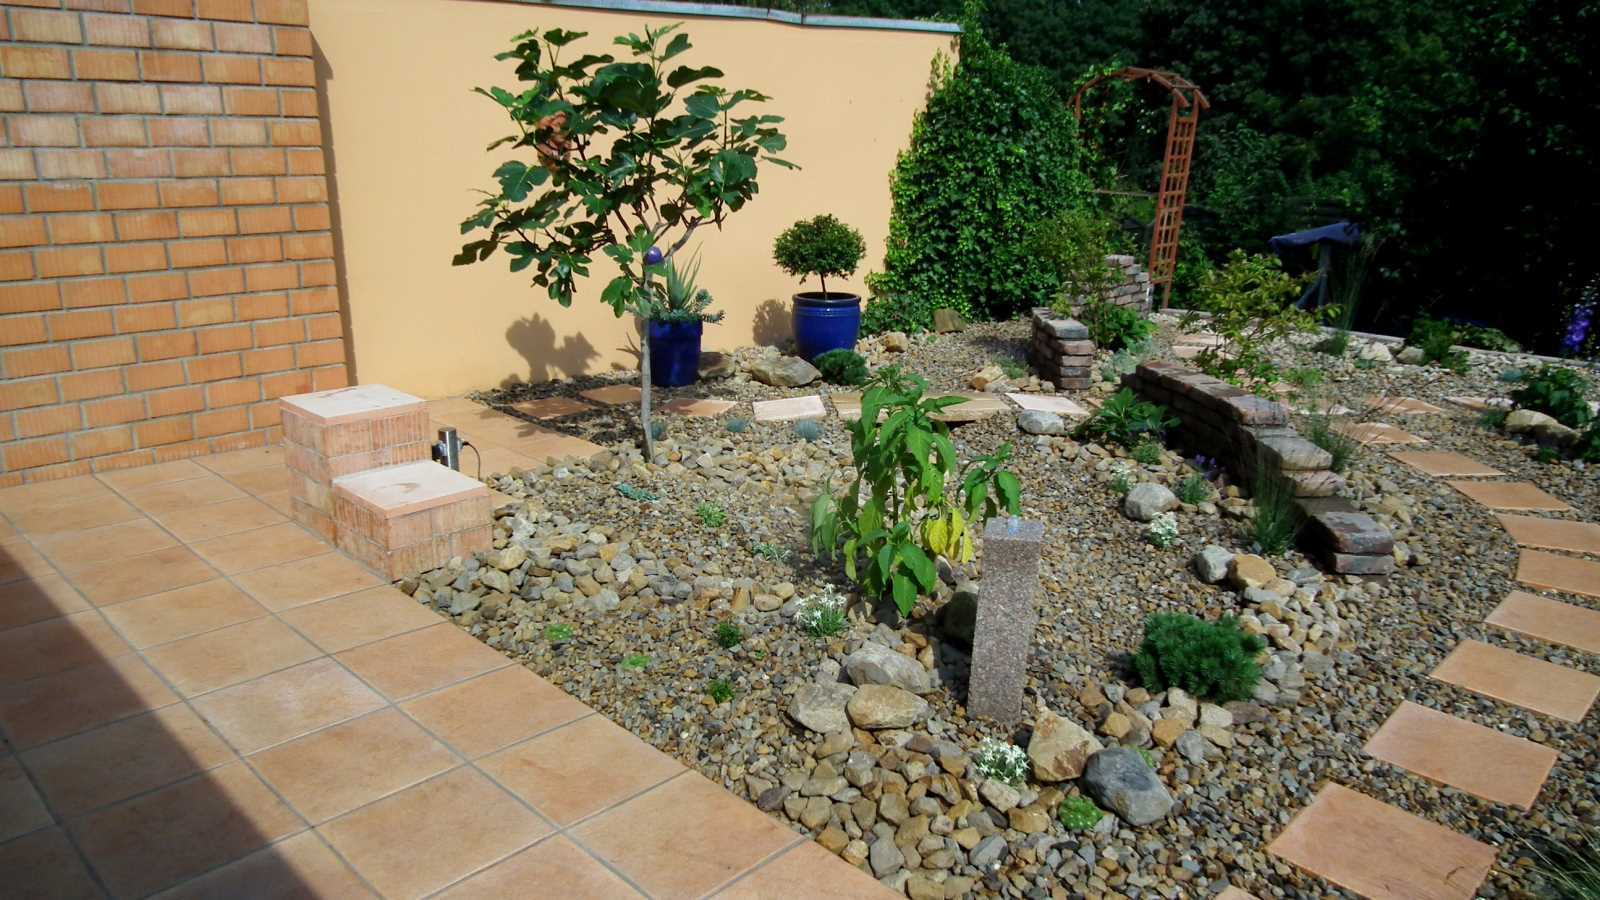
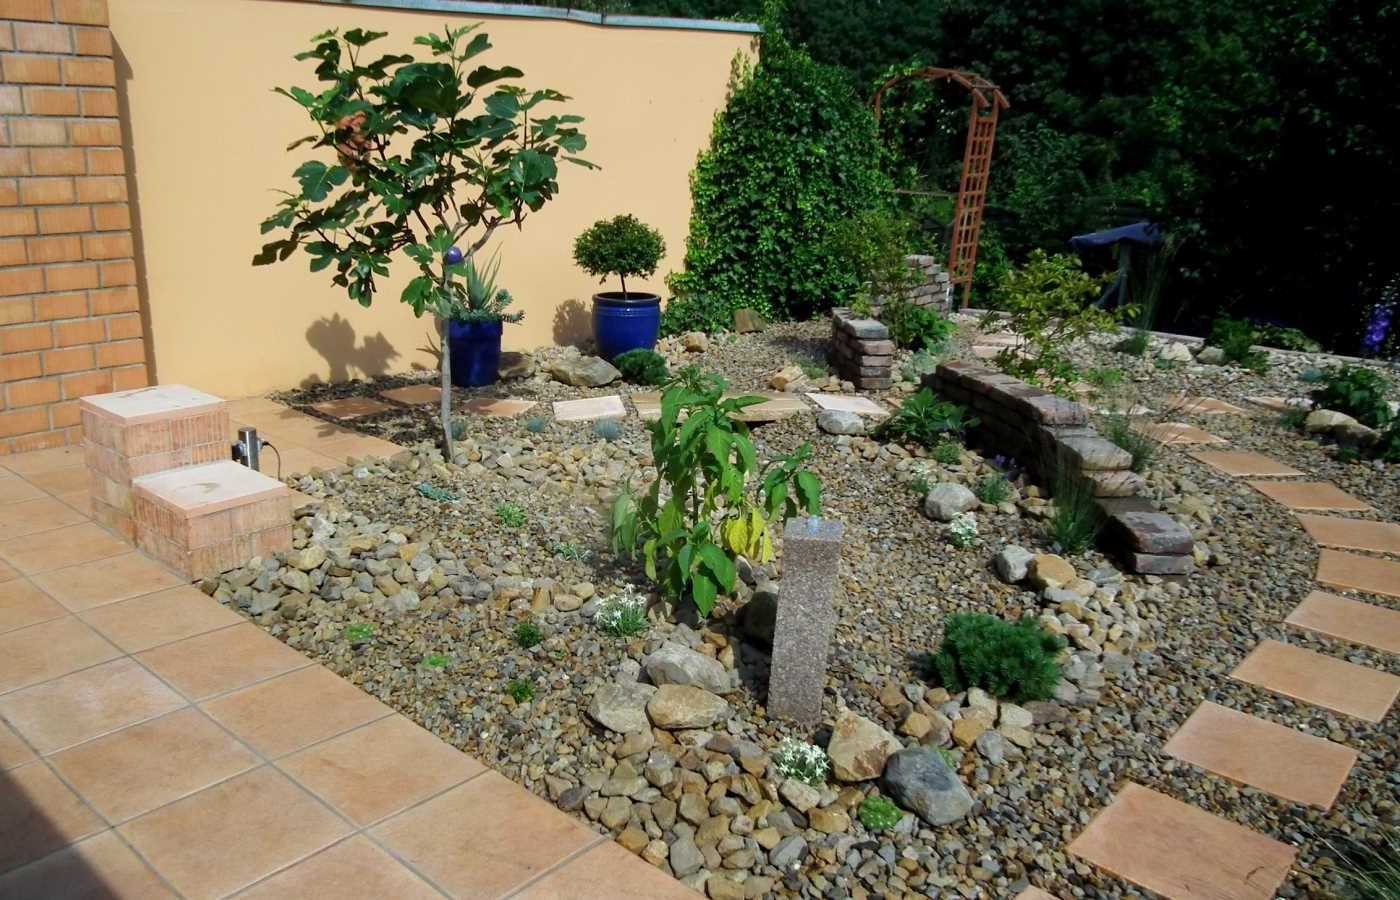
Add garten-referenz15.jpg

diff --git a/_layouts/garten.html b/_layouts/garten.html
@@ -91,15 +91,15 @@ layout: default
   <div class="h-spacer"></div>
 </div>
 
-<div class="content-frame">
-  <div class="h-spacer"></div>
-  <div class="h-spacer"></div>
-  <div class="h-spacer"></div>
-  <div class="h-spacer"></div>
-  <div class="h-spacer"></div>
+<div class="h-spacer"></div>
+<div class="h-spacer"></div>
+<div class="h-spacer"></div>
+<div class="h-spacer"></div>
+<div class="h-spacer"></div>
 
+<div class="wide-frame">
   <div class="flex-horizontal">
-    <div class="card card-style" style="width: 800px">
+    <div class="card card-style" style="width: 700px">
       <img
         class="card-img-top"
         src="{{ site.baseurl }}/assets/images/garten/garten-referenz4.jpg"
@@ -107,12 +107,32 @@ layout: default
         loading="lazy"
       />
       <div class="card-body">
-        <p class="card-text" style="text-align: center">
-          Umgestaltung eines alten Pools in einen mediterranen Garten mit alten Mauern, getrocknetem Flussbett, Feige und typischen Mittelmeerpflanzen
-        </p>
+        <p class="card-text" style="text-align: center">Umgestaltung eines alten Pools in einen mediterranen Garten mit...</p>
       </div>
     </div>
 
+    <div class="card card-style" style="width: 700px">
+      <img
+        class="card-img-top"
+        src="{{ site.baseurl }}/assets/images/garten/garten-referenz15.jpg"
+        alt="Bild eines Gartens in mediterraner Gestaltung"
+        loading="lazy"
+      />
+      <div class="card-body">
+        <p class="card-text" style="text-align: center">...alten Mauern, getrocknetem Flussbett, Feige und typischen Mittelmeerpflanzen.</p>
+      </div>
+    </div>
+  </div>
+</div>
+
+<div class="h-spacer"></div>
+<div class="h-spacer"></div>
+<div class="h-spacer"></div>
+<div class="h-spacer"></div>
+<div class="h-spacer"></div>
+
+<div class="content-frame">
+  <div class="flex-horizontal">
     <div class="card card-style" style="width: 500px">
       <img class="card-img-top" src="{{ site.baseurl }}/assets/images/garten/garten-referenz5.jpg" alt="Bild einer Terrasse" loading="lazy" />
       <div class="card-body">
@@ -134,13 +154,13 @@ layout: default
       </div>
     </div>
   </div>
-
-  <div class="h-spacer"></div>
-  <div class="h-spacer"></div>
-  <div class="h-spacer"></div>
-  <div class="h-spacer"></div>
-  <div class="h-spacer"></div>
 </div>
+
+<div class="h-spacer"></div>
+<div class="h-spacer"></div>
+<div class="h-spacer"></div>
+<div class="h-spacer"></div>
+<div class="h-spacer"></div>
 
 <div class="dark-bg">
   <div class="content-frame">
